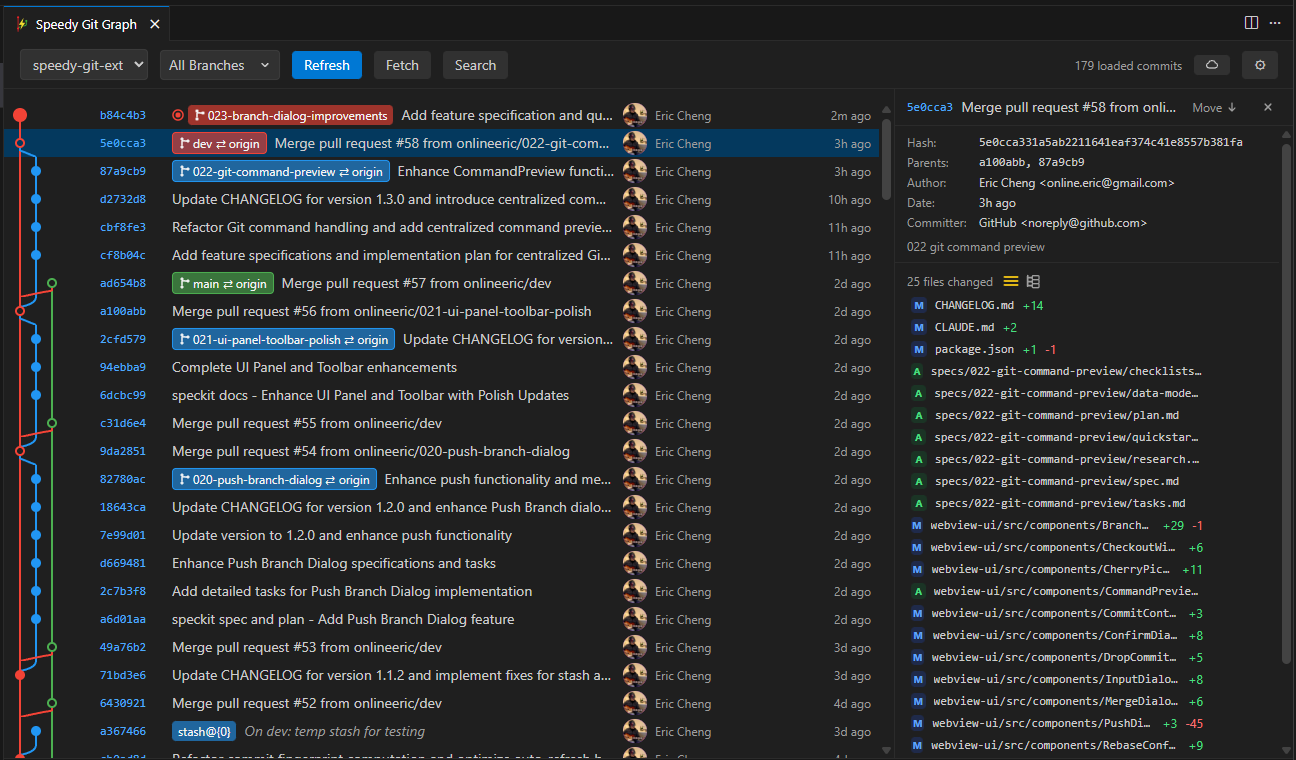
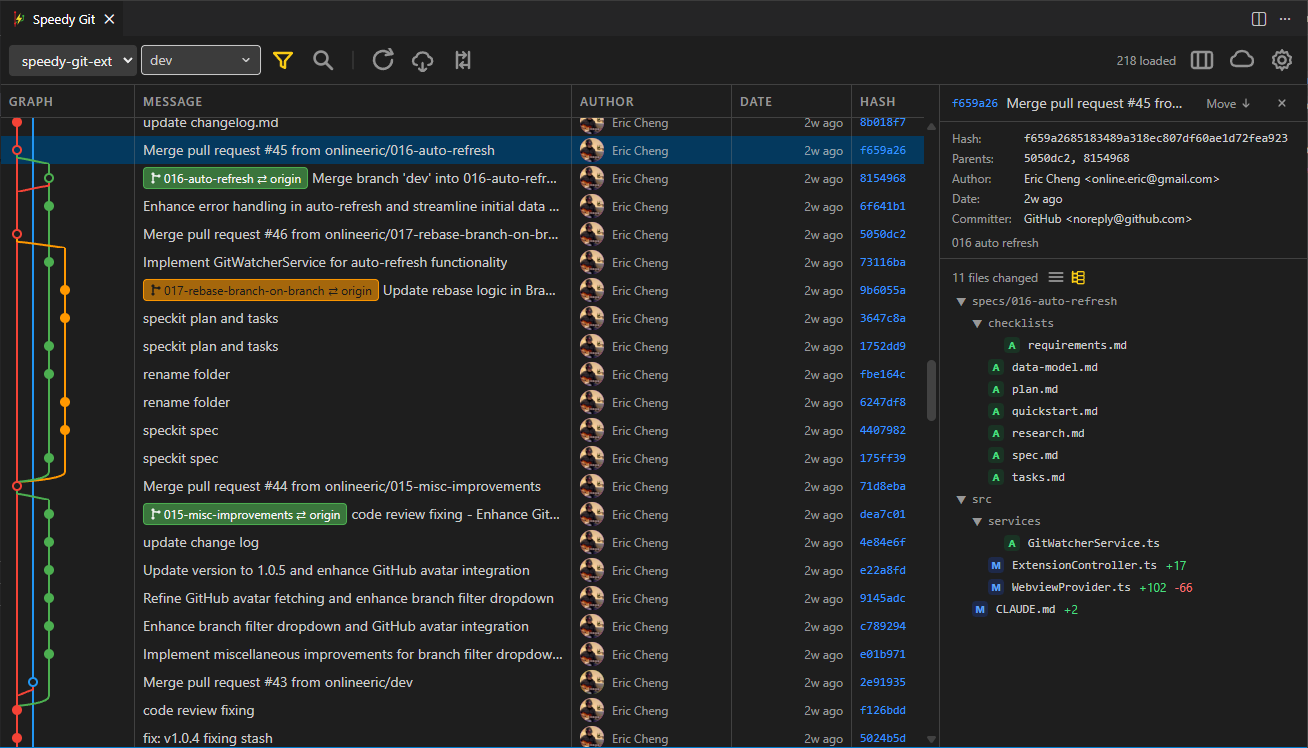
feat: Update README and UI components for v2 enhancements
- Added new UI features in README, including a table-style commit list with resizable columns and customizable visibility controls.
- Introduced upcoming features like branch comparison and advanced filtering options.
- Updated ControlBar component to hide filter and compare buttons until fully implemented, improving UI clarity.
- Ensured Git operations sync with VS Code's Source Control panel for real-time updates.

Changed region(s): [[0.0, 0.0, 1.0, 1.0]]

diff --git a/webview-ui/src/components/ControlBar.tsx b/webview-ui/src/components/ControlBar.tsx
@@ -127,6 +127,7 @@ export function ControlBar() {
         onClick={() => setActiveToggleWidget('filter')}
         className={`${iconButtonClass} ${filterColor}`}
         title="Filter"
+        style={{ display: 'none' }} // TODO: remove this once the filter button is wired to the toggle panel
       >
         <FilterIcon className={iconClass} />
       </button>
@@ -162,6 +163,7 @@ export function ControlBar() {
         onClick={() => setActiveToggleWidget('compare')}
         className={`${iconButtonClass} ${compareColor}`}
         title="Compare"
+        style={{ display: 'none' }} // TODO: remove this once the compare button is wired to the toggle panel
       >
         <CompareIcon className={iconClass} />
       </button>

diff --git a/README.md b/README.md
@@ -20,15 +20,25 @@ A performance-first Git graph, Git history viewer, and history-editing tool buil
 
 ## Features
 
+### New UI in v2
+We have a new UI in v2, with a new control bar and toggle panel for Filter, Search, and Compare. The commit list is now a table-style view with resizable columns, column reordering, and column visibility controls.
+
+### Upcoming features in v2
+- Compare branches, commits, HEAD, etc.
+- Filter by Author, date range.
+- Search result switch between highlight and filter.
+
 ### Git Graph & Commit History
 
 - Fast, interactive commit graph with color-coded branch lanes and virtual scrolling for repositories of any size.
-- Commit details panel (bottom or right, resizable) with file change list, per-file addition/deletion counts, and inline diff viewer.
+- Table-style commit list view with resizable columns, column reordering, and column visibility controls — customize which commit metadata (graph, hash, message, author, date) is shown and how wide each column appears. Double-click a column boundary to auto-fit width.
+- Commit details panel (bottom or right, resizable) with file change list, per-file addition/deletion counts, and inline diff viewer. Automatically switches to side-by-side layout when the bottom panel is wide enough.
 - List and tree view toggle for file changes — tree view groups by directory with automatic folder compaction.
 - Hover tooltip on commit nodes showing branches, tags, stashes, worktree status, and clickable GitHub PR/issue links.
 - Inline code styling for backtick-delimited text in commit messages (e.g., `functionName` renders with code background).
 - Client-side search and filter by commit message, hash, or author name with match counter and auto-scroll navigation.
-- Branch filter dropdown with real-time text search and keyboard-first selection.
+- Branch filter dropdown with multi-select support, real-time text search, and keyboard-first selection — view commits from multiple branches at once.
+
 
 ### Branch, Tag & Stash Operations
 
@@ -61,6 +71,7 @@ Every major dialog (merge, cherry-pick, rebase, reset, push, tag, delete, drop) 
 
 - Push dialog with upstream config, force-push modes (`--force-with-lease`, `--force`), and multi-remote support.
 - Fetch, pull, and remote management (add, remove, edit remotes) without leaving the extension.
+- Git operations automatically notify VS Code's Source Control panel to refresh, keeping it in sync immediately.
 
 ### Personalization
 
@@ -115,7 +126,7 @@ All shortcuts are customizable in VS Code's Keyboard Shortcuts editor.
 | Submodule support | Status, navigation, init, update | Varies | Rarely |
 | Startup overhead | Lightweight, single-panel | Extension suite, multiple views | Lightweight |
 
-## Contributing & Feedback
+## Issues, feature requests & Feedback
 
 - Issues and feature requests: [GitHub Issues](https://github.com/onlineeric/speedy-git-ext/issues)
 - Source code: [github.com/onlineeric/speedy-git-ext](https://github.com/onlineeric/speedy-git-ext)
